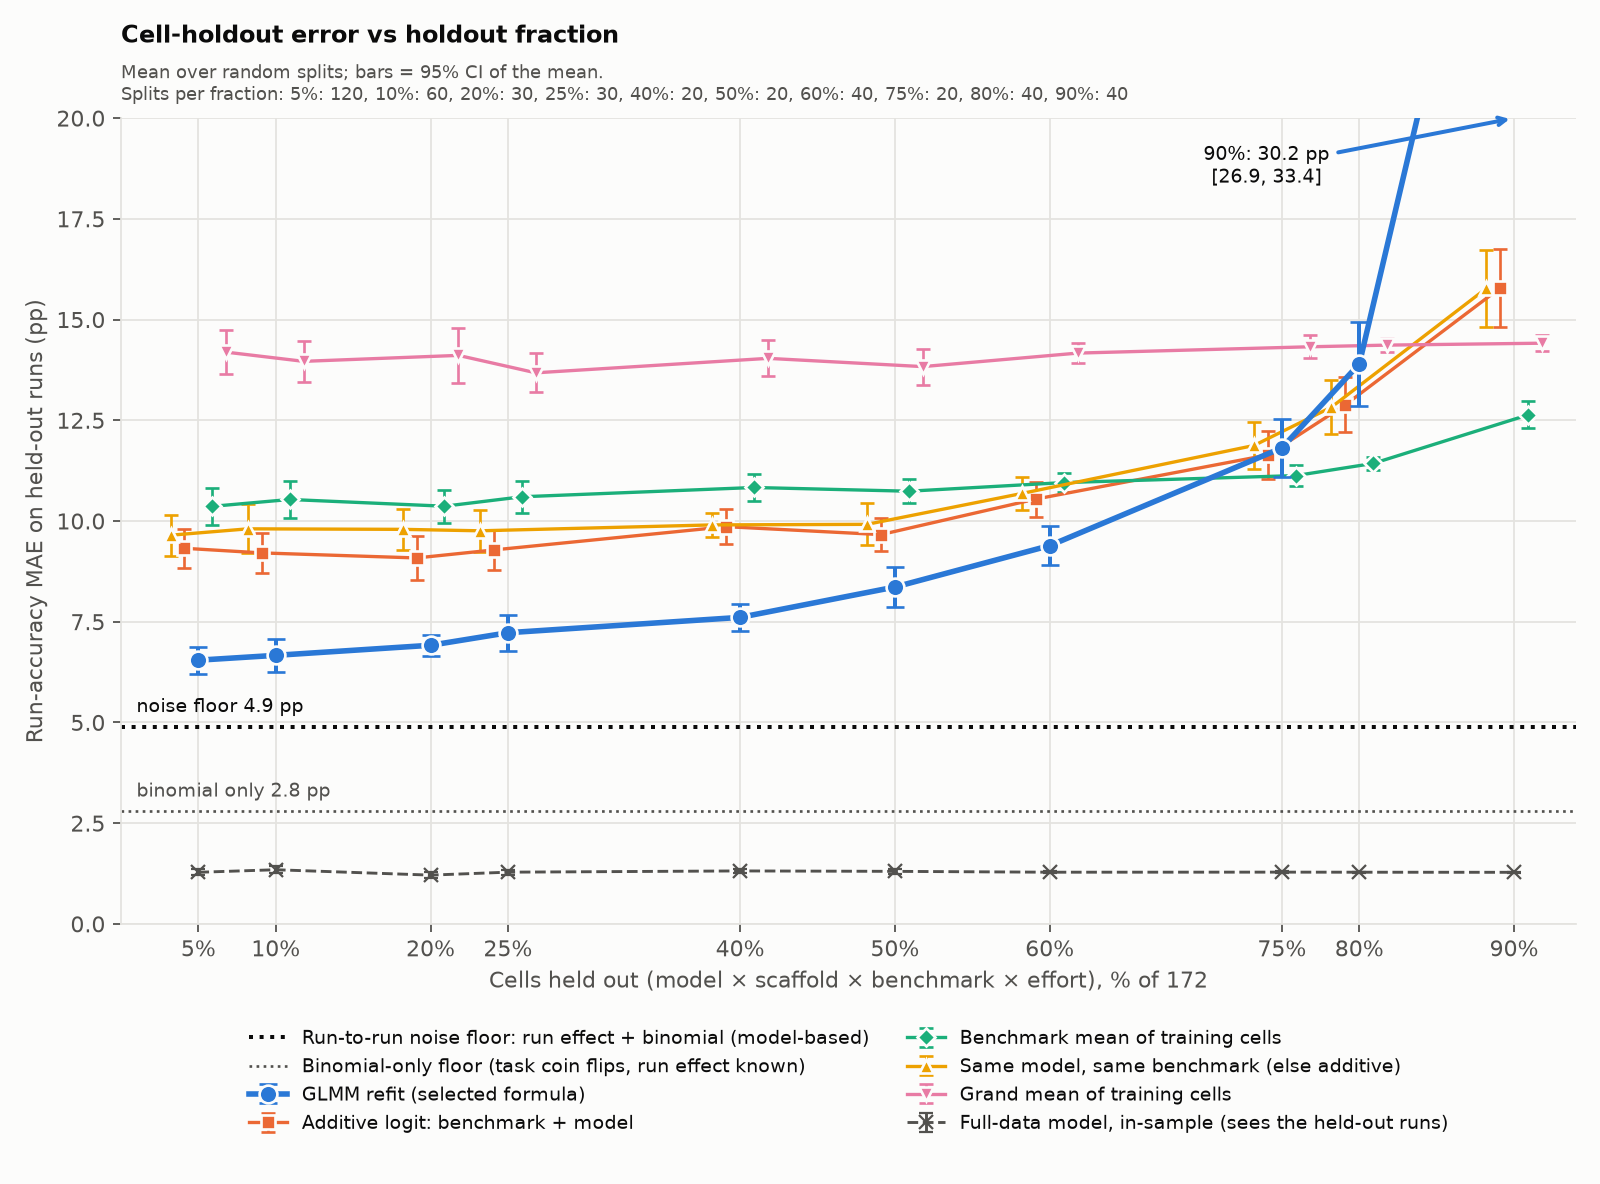
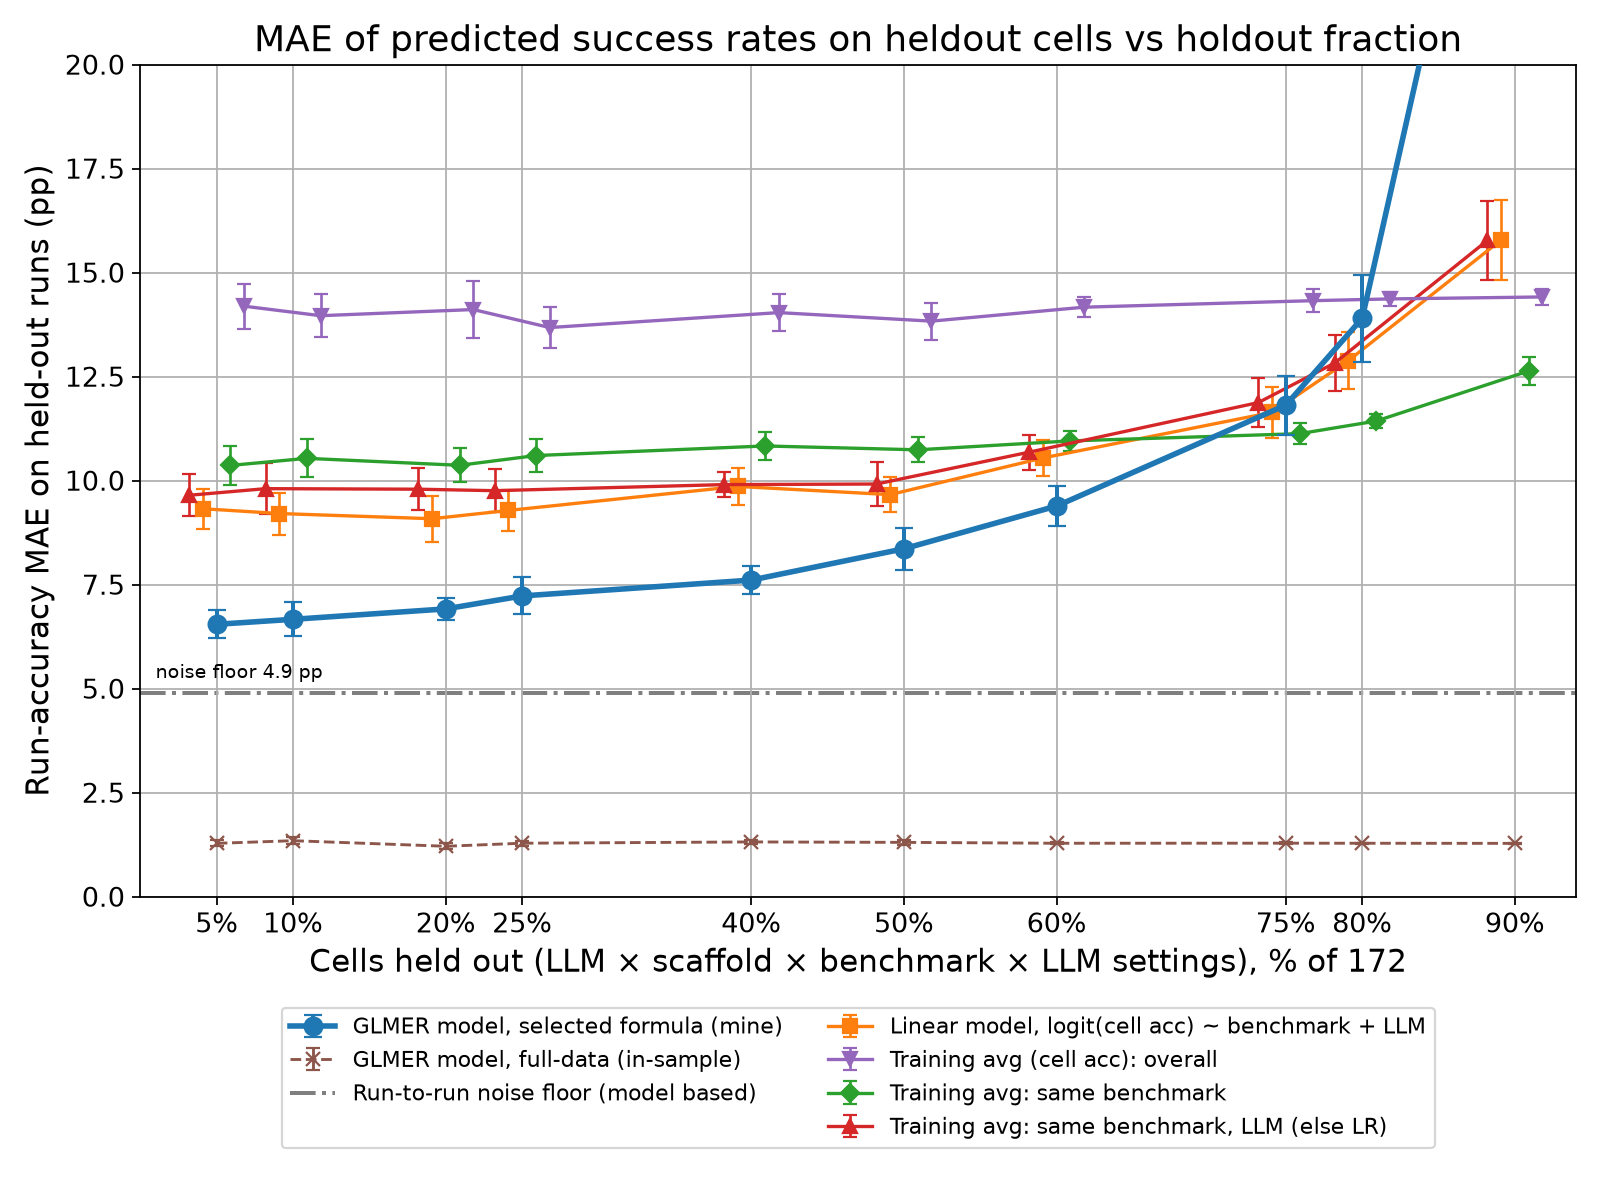
Part 2c figure: default matplotlib styling, GLMER model naming, baseline labels, LLM wording, legend regrouped, 90 % refit clipped by ylim, single model-based noise floor

diff --git a/scripts/make_holdout_curve_figure.py b/scripts/make_holdout_curve_figure.py
@@ -1,24 +1,16 @@
 """Part 2c figure and table: cell-holdout run-accuracy MAE vs holdout fraction (DESIGN.md "Part 2c").
 Reads results/part2_curve/; writes results/figures/holdout_curve_mae.png and results/tables/holdout_curve.md.
-Palette: reference dataviz palette, light mode, categorical slots 1-5 in fixed order (adjacent pairlist);
-references (full-data model, noise floor) in secondary ink. Every series also has its own marker and a direct label.
+Default matplotlib styling (colour cycle, background, text, legend); only sizes, markers and line styles are set.
 """
 import os
 import pandas as pd
 import matplotlib
+import matplotlib.patches
 matplotlib.use("Agg")
 import matplotlib.pyplot as plt
 
 IN, OUT, TAB = "results/part2_curve", "results/figures", "results/tables"
 os.makedirs(OUT, exist_ok=True); os.makedirs(TAB, exist_ok=True)
-SURFACE, INK, INK2, GRID = "#fcfcfb", "#0b0b0b", "#52514e", "#e4e3df"
-plt.rcParams.update({
-    "figure.facecolor": SURFACE, "axes.facecolor": SURFACE, "savefig.facecolor": SURFACE,
-    "axes.edgecolor": GRID, "axes.labelcolor": INK2, "xtick.color": INK2, "ytick.color": INK2,
-    "text.color": INK, "font.size": 10, "axes.titlesize": 11, "axes.titleweight": "bold",
-    "axes.spines.top": False, "axes.spines.right": False, "axes.grid": True, "grid.color": GRID,
-    "grid.linewidth": 0.8, "axes.axisbelow": True, "legend.frameon": False,
-})
 
 s = pd.read_csv(f"{IN}/holdout_summary.csv")
 nf = pd.read_csv(f"{IN}/noise_floor.csv").set_index("quantity").mae_pp
@@ -26,54 +18,57 @@ s["pct"] = (100 * s.frac).round().astype(int)
 
 # (predictor, label, colour, marker, x-offset in pct points so the error bars do not overlap)
 SERIES = [
-    ("refit", "GLMM refit (selected formula)", "#2a78d6", "o", 0.0),
-    ("naive_additive", "Additive logit: benchmark + model", "#eb6834", "s", -0.9),
-    ("naive_bench_mean", "Benchmark mean of training cells", "#1baf7a", "D", 0.9),
-    ("naive_model_bench", "Same model, same benchmark (else additive)", "#eda100", "^", -1.8),
-    ("naive_grand_mean", "Grand mean of training cells", "#e87ba4", "v", 1.8),
+    ("refit", "GLMER model, selected formula (mine)", "C0", "o", 0.0),
+    ("naive_additive", "Linear model, logit(cell acc) ~ benchmark + LLM", "C1", "s", -0.9),
+    ("naive_bench_mean", "Training avg: same benchmark", "C2", "D", 0.9),
+    ("naive_model_bench", "Training avg: same benchmark, LLM (else LR)", "C3", "^", -1.8),
+    ("naive_grand_mean", "Training avg (cell acc): overall", "C4", "v", 1.8),
 ]
 
 fig, ax = plt.subplots(figsize=(10, 7.4))
-YMAX = 20  # the 90 % refit mean is far above; it is drawn as a labelled off-scale arrow
+YMAX = 20  # the 90 % refit (30.2 pp) runs off the top and is clipped; its value is printed for the text beside the figure
 for key, label, col, mk, dx in SERIES:
     g = s[s.predictor == key].sort_values("pct")
     main = key == "refit"
     ax.errorbar(g.pct + dx, g.run_mae_pp, yerr=[g.run_mae_pp - g.ci_lo, g.ci_hi - g.run_mae_pp], color=col, marker=mk,
                 ms=8 if main else 6, lw=2.5 if main else 1.5, elinewidth=1.8 if main else 1.2, capsize=4 if main else 3,
-                mec=SURFACE, mew=1.2, label=label, zorder=5 if main else 3)
+                label=label, zorder=5 if main else 3)
 # references: full-data model (in-sample, per split) and the model-based run-to-run noise floor
 g = s[s.predictor == "full_model"].sort_values("pct")
-ax.errorbar(g.pct, g.run_mae_pp, yerr=[g.run_mae_pp - g.ci_lo, g.ci_hi - g.run_mae_pp], color=INK2, ls="--", marker="x",
-            ms=6, lw=1.3, capsize=3, label="Full-data model, in-sample (sees the held-out runs)", zorder=2)
-ax.axhline(nf["floor_run_plus_binomial"], color=INK, ls=":", lw=1.8, zorder=1,
-           label="Run-to-run noise floor: run effect + binomial (model-based)")
-ax.axhline(nf["floor_binomial_only"], color=INK2, ls=":", lw=1.2, zorder=1,
-           label="Binomial-only floor (task coin flips, run effect known)")
+ax.errorbar(g.pct, g.run_mae_pp, yerr=[g.run_mae_pp - g.ci_lo, g.ci_hi - g.run_mae_pp], color="C5", ls="--", marker="x",
+            ms=6, lw=1.3, capsize=3, label="GLMER model, full-data (in-sample)", zorder=2)
+ax.axhline(nf["floor_run_plus_binomial"], color="C7", ls="-.", lw=1.8, zorder=1,
+           label="Run-to-run noise floor (model based)")
 
 # direct labels for the reference lines at the left edge
-ax.text(1, nf["floor_run_plus_binomial"] + 0.25, f"noise floor {nf['floor_run_plus_binomial']:.1f} pp", color=INK, fontsize=8.5, va="bottom")
-ax.text(1, nf["floor_binomial_only"] + 0.25, f"binomial only {nf['floor_binomial_only']:.1f} pp", color=INK2, fontsize=8.5, va="bottom")
+ax.text(1, nf["floor_run_plus_binomial"] + 0.25, f"noise floor {nf['floor_run_plus_binomial']:.1f} pp", fontsize=8.5, va="bottom")
 
 pcts = sorted(s.pct.unique())
 ax.set_xticks(pcts); ax.set_xticklabels([f"{p}%" for p in pcts]); ax.set_xlim(0, 94)
+ax.tick_params(labelsize=12)
 ax.set_ylim(0, YMAX)
-for key, label, col, mk, dx in SERIES:  # off-scale points: arrow at the top edge with the value and CI
-    for _, x in s[(s.predictor == key) & (s.run_mae_pp > YMAX)].iterrows():
-        ax.annotate(f"{x.pct}%: {x.run_mae_pp:.1f} pp\n[{x.ci_lo:.1f}, {x.ci_hi:.1f}]", xy=(x.pct + dx, YMAX), xytext=(x.pct + dx - 16, YMAX - 1.6),
-                    color=INK, fontsize=8.5, ha="center", arrowprops=dict(arrowstyle="->", color=col, lw=1.8), zorder=6)
-ax.set_xlabel("Cells held out (model × scaffold × benchmark × effort), % of 172")
-ax.set_ylabel("Run-accuracy MAE on held-out runs (pp)")
-nrep = s[s.predictor == "refit"].set_index("pct").n
-ax.set_title("Cell-holdout error vs holdout fraction", loc="left", pad=34)
-ax.text(0, 1.015, "Mean over random splits; bars = 95% CI of the mean.\nSplits per fraction: "
-        + ", ".join(f"{p}%: {nrep[p]}" for p in pcts), transform=ax.transAxes, fontsize=8, color=INK2, va="bottom")
-ax.legend(loc="upper center", bbox_to_anchor=(0.5, -0.11), fontsize=8.5, ncol=2)
+off = s[(s.predictor.isin([k for k, *_ in SERIES])) & (s.run_mae_pp > YMAX)]
+for _, x in off.iterrows():
+    print(f"clipped (above {YMAX} pp): {x.predictor} at {x.pct}%: {x.run_mae_pp:.1f} pp [{x.ci_lo:.1f}, {x.ci_hi:.1f}]")
+ax.set_xlabel("Cells held out (LLM × scaffold × benchmark × LLM settings), % of 172", fontsize=14)
+ax.set_ylabel("Run-accuracy MAE on held-out runs (pp)", fontsize=14)
+ax.set_title("MAE of predicted success rates on heldout cells vs holdout fraction", fontsize=16)
+ax.grid(True)
+# legend grouped by column (filled column-wise): left = GLMER model and its noise floor, right = linear model and training averages
+ORDER = ["GLMER model, selected formula (mine)", "GLMER model, full-data (in-sample)",
+         "Run-to-run noise floor (model based)", "",
+         "Linear model, logit(cell acc) ~ benchmark + LLM", "Training avg (cell acc): overall",
+         "Training avg: same benchmark", "Training avg: same benchmark, LLM (else LR)"]
+hl = dict(zip(*reversed(ax.get_legend_handles_labels())))
+hl[""] = matplotlib.patches.Rectangle((0, 0), 1, 1, visible=False)  # blank slot so the left column holds only GLMER entries
+assert set(hl) == set(ORDER)
+ax.legend([hl[k] for k in ORDER], ORDER, loc="upper center", bbox_to_anchor=(0.5, -0.12), fontsize=10, ncol=2)
 fig.tight_layout()
 fig.savefig(f"{OUT}/holdout_curve_mae.png", dpi=160)
 
 # ---- table ------------------------------------------------------------------------------------
 cols = [k for k, *_ in SERIES] + ["full_model"]
-names = {"refit": "GLMM refit", "naive_additive": "Additive", "naive_bench_mean": "Benchmark mean",
+names = {"refit": "GLMER model refit", "naive_additive": "Additive", "naive_bench_mean": "Benchmark mean",
          "naive_model_bench": "Same model × benchmark", "naive_grand_mean": "Grand mean", "full_model": "Full-data (in-sample)"}
 r = s[s.predictor == "refit"].set_index("pct")
 lines = ["| Held out | Cells | Splits | " + " | ".join(names[c] for c in cols) + " | Refit Brier | Refit AUC | Fallback fits | Mean redraws |",

diff --git a/results/tables/holdout_curve.md b/results/tables/holdout_curve.md
@@ -1,4 +1,4 @@
-| Held out | Cells | Splits | GLMM refit | Additive | Benchmark mean | Same model × benchmark | Grand mean | Full-data (in-sample) | Refit Brier | Refit AUC | Fallback fits | Mean redraws |
+| Held out | Cells | Splits | GLMER model refit | Additive | Benchmark mean | Same model × benchmark | Grand mean | Full-data (in-sample) | Refit Brier | Refit AUC | Fallback fits | Mean redraws |
 |---|---|---|---|---|---|---|---|---|---|---|---|---|
 | 5 % | 9 | 120 | 6.55 [6.21, 6.88] | 9.32 [8.84, 9.80] | 10.36 [9.91, 10.82] | 9.65 [9.14, 10.15] | 14.19 [13.65, 14.74] | 1.28 [1.21, 1.36] | 0.137 | 0.866 | 0 | 0.0 |
 | 10 % | 17 | 60 | 6.67 [6.25, 7.08] | 9.21 [8.70, 9.71] | 10.53 [10.08, 10.99] | 9.81 [9.20, 10.41] | 13.96 [13.45, 14.48] | 1.34 [1.25, 1.43] | 0.139 | 0.859 | 0 | 0.0 |
